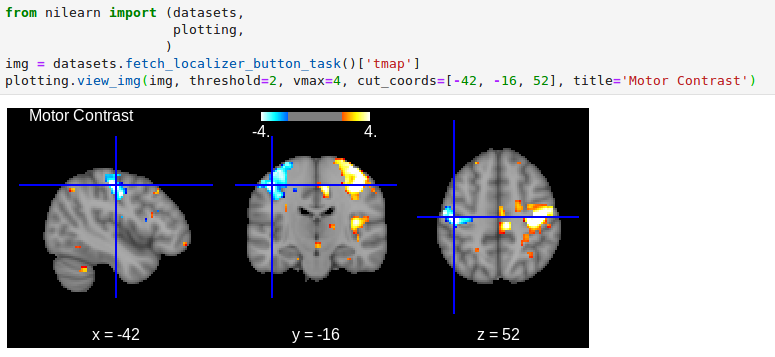
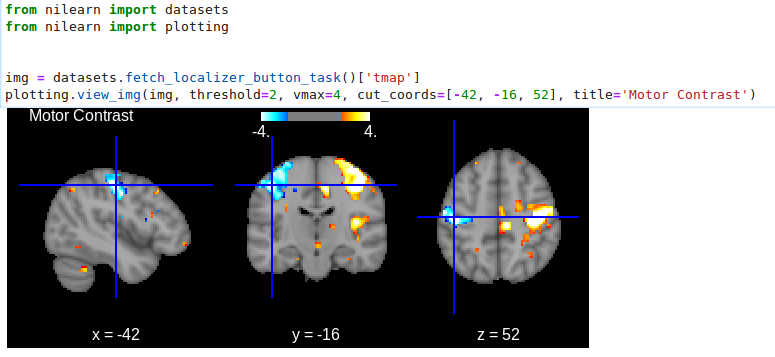
Corrected example images; small tweak in whats_new.rst
- Changed plotely_surface_plot_screenshot.png to show
 the right side of the right hemisphere with more positive activations
 than the earlier left with more negative activations.
 - Switched to one import per import statement for stylistic consistency.
 - Removed the highlight in a sentence in whats_new.rst. Too much.

Changed region(s): [[0.0, 0.1541, 0.991, 0.3081], [0.0, 0.0, 0.3097, 0.1232]]

diff --git a/doc/whats_new.rst b/doc/whats_new.rst
@@ -76,7 +76,7 @@ Notable Changes
  :func:`nilearn.image.clean_img` is None
  and cannot be None if `low_pass` or `high_pass` is specified.
 
-**LOTS of changes and improvements. Detailed change list follows.**
+Lots of changes and improvements. Detailed change list for each release follows.
 
 0.5.0 rc
 ========
@@ -136,7 +136,7 @@ The following people contributed to this release::
   15 Gael Varoquaux
   114 Pierre Bellec
   30 Michael Notter
-  27 Kshitij Chawla (kchawla-pi)
+  28 Kshitij Chawla (kchawla-pi)
   4 Kamalakar Daddy
   4 himanshupathak21061998
   1 Horea Christian
